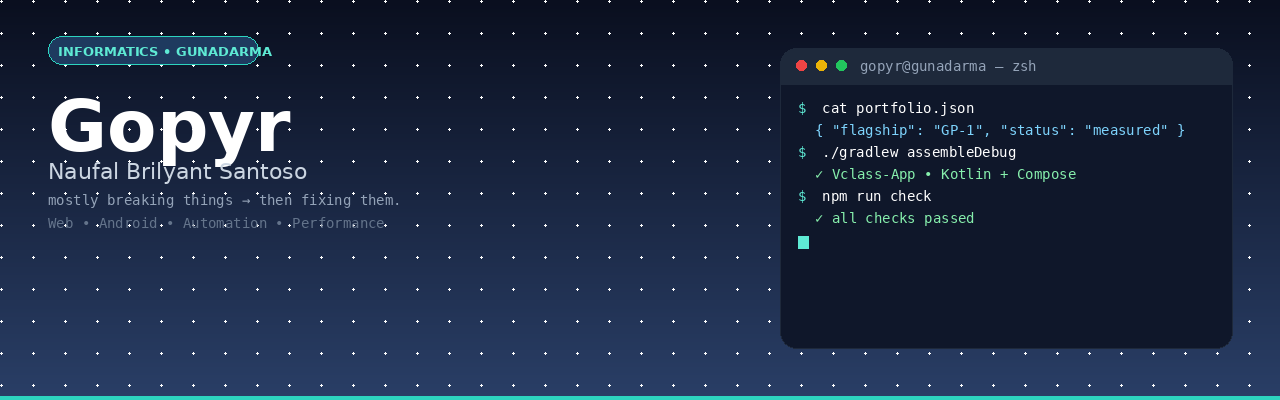
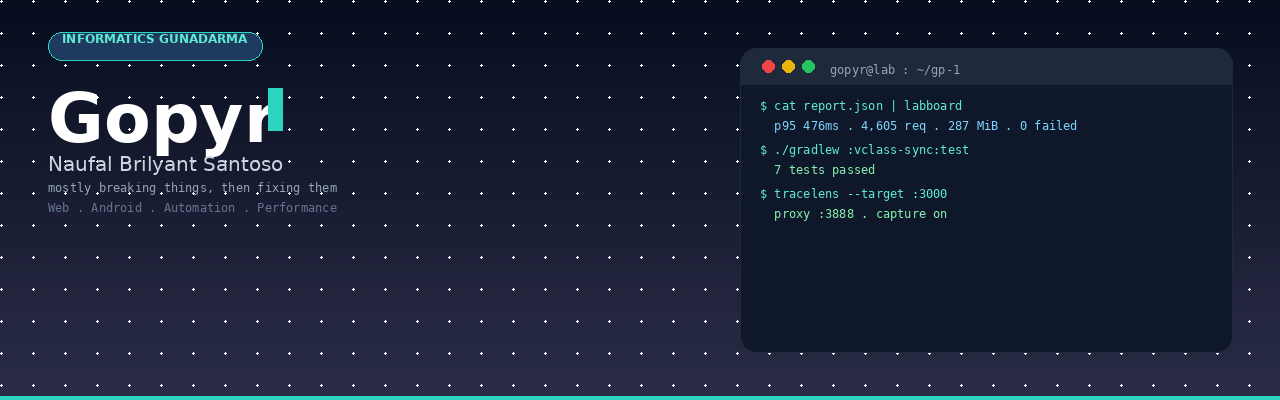
profile: concise one-screen readme and animated header
- svg header with subtle scan line and spark animation
- readme fits one screen, no em dash, no flagship buzzword
- currently building and selected work with real links

diff --git a/README.md b/README.md
@@ -1,49 +1,38 @@
 <div align="center">
- <img src="./assets/profile-header.png" alt="Gopyr — Naufal Brilyant Santoso" width="100%" />
+  <img src="./assets/profile-header.svg" alt="Gopyr profile header" width="100%" />
 </div>
 
-# Gopyr — mostly breaking things, then fixing them
+# Gopyr
+**Informatics student at Gunadarma. I build small useful software and ship it.**
 
-Informatics student @ **Universitas Gunadarma** — I build small, useful software across **web, Android, and automation**. I like readable code, honest docs, and shipping incrementally.
+> [GP-1](https://github.com/Gopyr/GP-1) is my main project. Reproducible HTTP performance toolkit. Lab run 25 to 400 workers, 4605 req, 287 MiB, p95 476 ms, 0 failed on a loopback target I own. [Report](https://github.com/Gopyr/GP-1/blob/main/experiments/results/saturation-2026-08-22/SATURATION-REPORT.md)
 
-> **[GP-1](https://github.com/Gopyr/GP-1)** — reproducible HTTP performance toolkit. Latest lab run: `25→400 workers` · `4,605 req` · `287.81 MiB` · `p95 476.07 ms` · `0 failures` — all measured on a project-owned loopback target.
+## Currently building
+* GP-1 v0.2.0 with compare view and HTML reports
+* Lab Board dashboard for GP-1 reports
+* VClass offline sync engine in Kotlin
 
----
-
-### What I ship
-
-| Area | Stack | Proof |
+## Selected work
+| Project | What it is | Link |
 |---|---|---|
-| **Web** | React / Vite / API modules | [Payment-Gateway](https://github.com/Gopyr/Payment-Gateaway) · QRIS flow prototype |
-| **Android** | Kotlin / Jetpack Compose | [Vclass-App](https://github.com/Gopyr/Vclass-App) · V-Class companion (courses, forum, quiz) |
-| **Automation** | Node / Discord API | [discord-vercel](https://github.com/Gopyr/discord-vercel) · plugin bot + dashboard |
-| **Lab tools** | Python · CLI | [autorecon](https://github.com/Gopyr/autorecon) · [subenum](https://github.com/Gopyr/subenum) · [logparse](https://github.com/Gopyr/logparse) · [syscheck](https://github.com/Gopyr/syscheck) |
+| GP-1 | HTTP performance toolkit. Bounded, mode based, evidence first | [Gopyr/GP-1](https://github.com/Gopyr/GP-1) |
+| Lab Board | Visual board for GP-1 JSON reports | [Gopyr/labboard](https://github.com/Gopyr/labboard) |
+| VClass Sync | Offline first sync engine for VClass | [Gopyr/vclass-sync](https://github.com/Gopyr/vclass-sync) |
+| TraceLens | Local proxy that captures latency and status | [Gopyr/tracelens](https://github.com/Gopyr/tracelens) |
+| Vclass App | Android companion for V-Class Gunadarma | [Gopyr/Vclass-App](https://github.com/Gopyr/Vclass-App) |
 
-### Spotlight
+More on [repositories](https://github.com/Gopyr?tab=repositories). Older experiment `Advanced Layer 7 Stress Test Tool` is deprecated, use GP-1.
 
-**[GP-1](https://github.com/Gopyr/GP-1)** is the main project — bounded by default, mode-based, and evidence-first. No attack modes, no evasion. Reports include throughput, MiB/s, status codes, and p50/p95/p99. See [saturation report](https://github.com/Gopyr/GP-1/blob/main/experiments/results/saturation-2026-08-22/SATURATION-REPORT.md).
-
-> Previous experiment `Advanced-Layer-7-Stress-Test-Tool` is now **deprecated — use GP-1**.
-
----
-
-### How I work
-- Start with the smallest useful version
-- Keep the interface obvious, document the limits honestly
-- Prototype = labelled as prototype, no polished fiction
-
-### Stack
-`JavaScript` `TypeScript` `React` `Vite` `Kotlin` `Compose` `Node.js` `Python` `REST` `Git`
-
----
+## Stack
+`TypeScript` `React` `Vite` `Kotlin` `Compose` `Node` `Python` `REST` `Git`
 
 <div align="center">
- <img src="./github-metrics.svg" alt="GitHub metrics" width="100%" />
+  <img src="./github-metrics.svg" alt="metrics" width="100%" />
 </div>
 
-### Let's build
-Open an issue or PR if you have a reproducible bug or a focused idea. I review small, well-scoped contributions fast.
+## Contact
+Open an issue or PR for bugs and ideas. I review small focused contributions fast.
 
-**Find me:** [github.com/Gopyr](https://github.com/Gopyr) · [repos](https://github.com/Gopyr?tab=repositories) · [activity](https://github.com/Gopyr?tab=overview&from=2026-01-01&to=2026-12-31)
+[github.com/Gopyr](https://github.com/Gopyr) · [activity](https://github.com/Gopyr?tab=overview&from=2026-01-01&to=2026-12-31)
 
 <sub>Built with curiosity, shipped incrementally.</sub>
